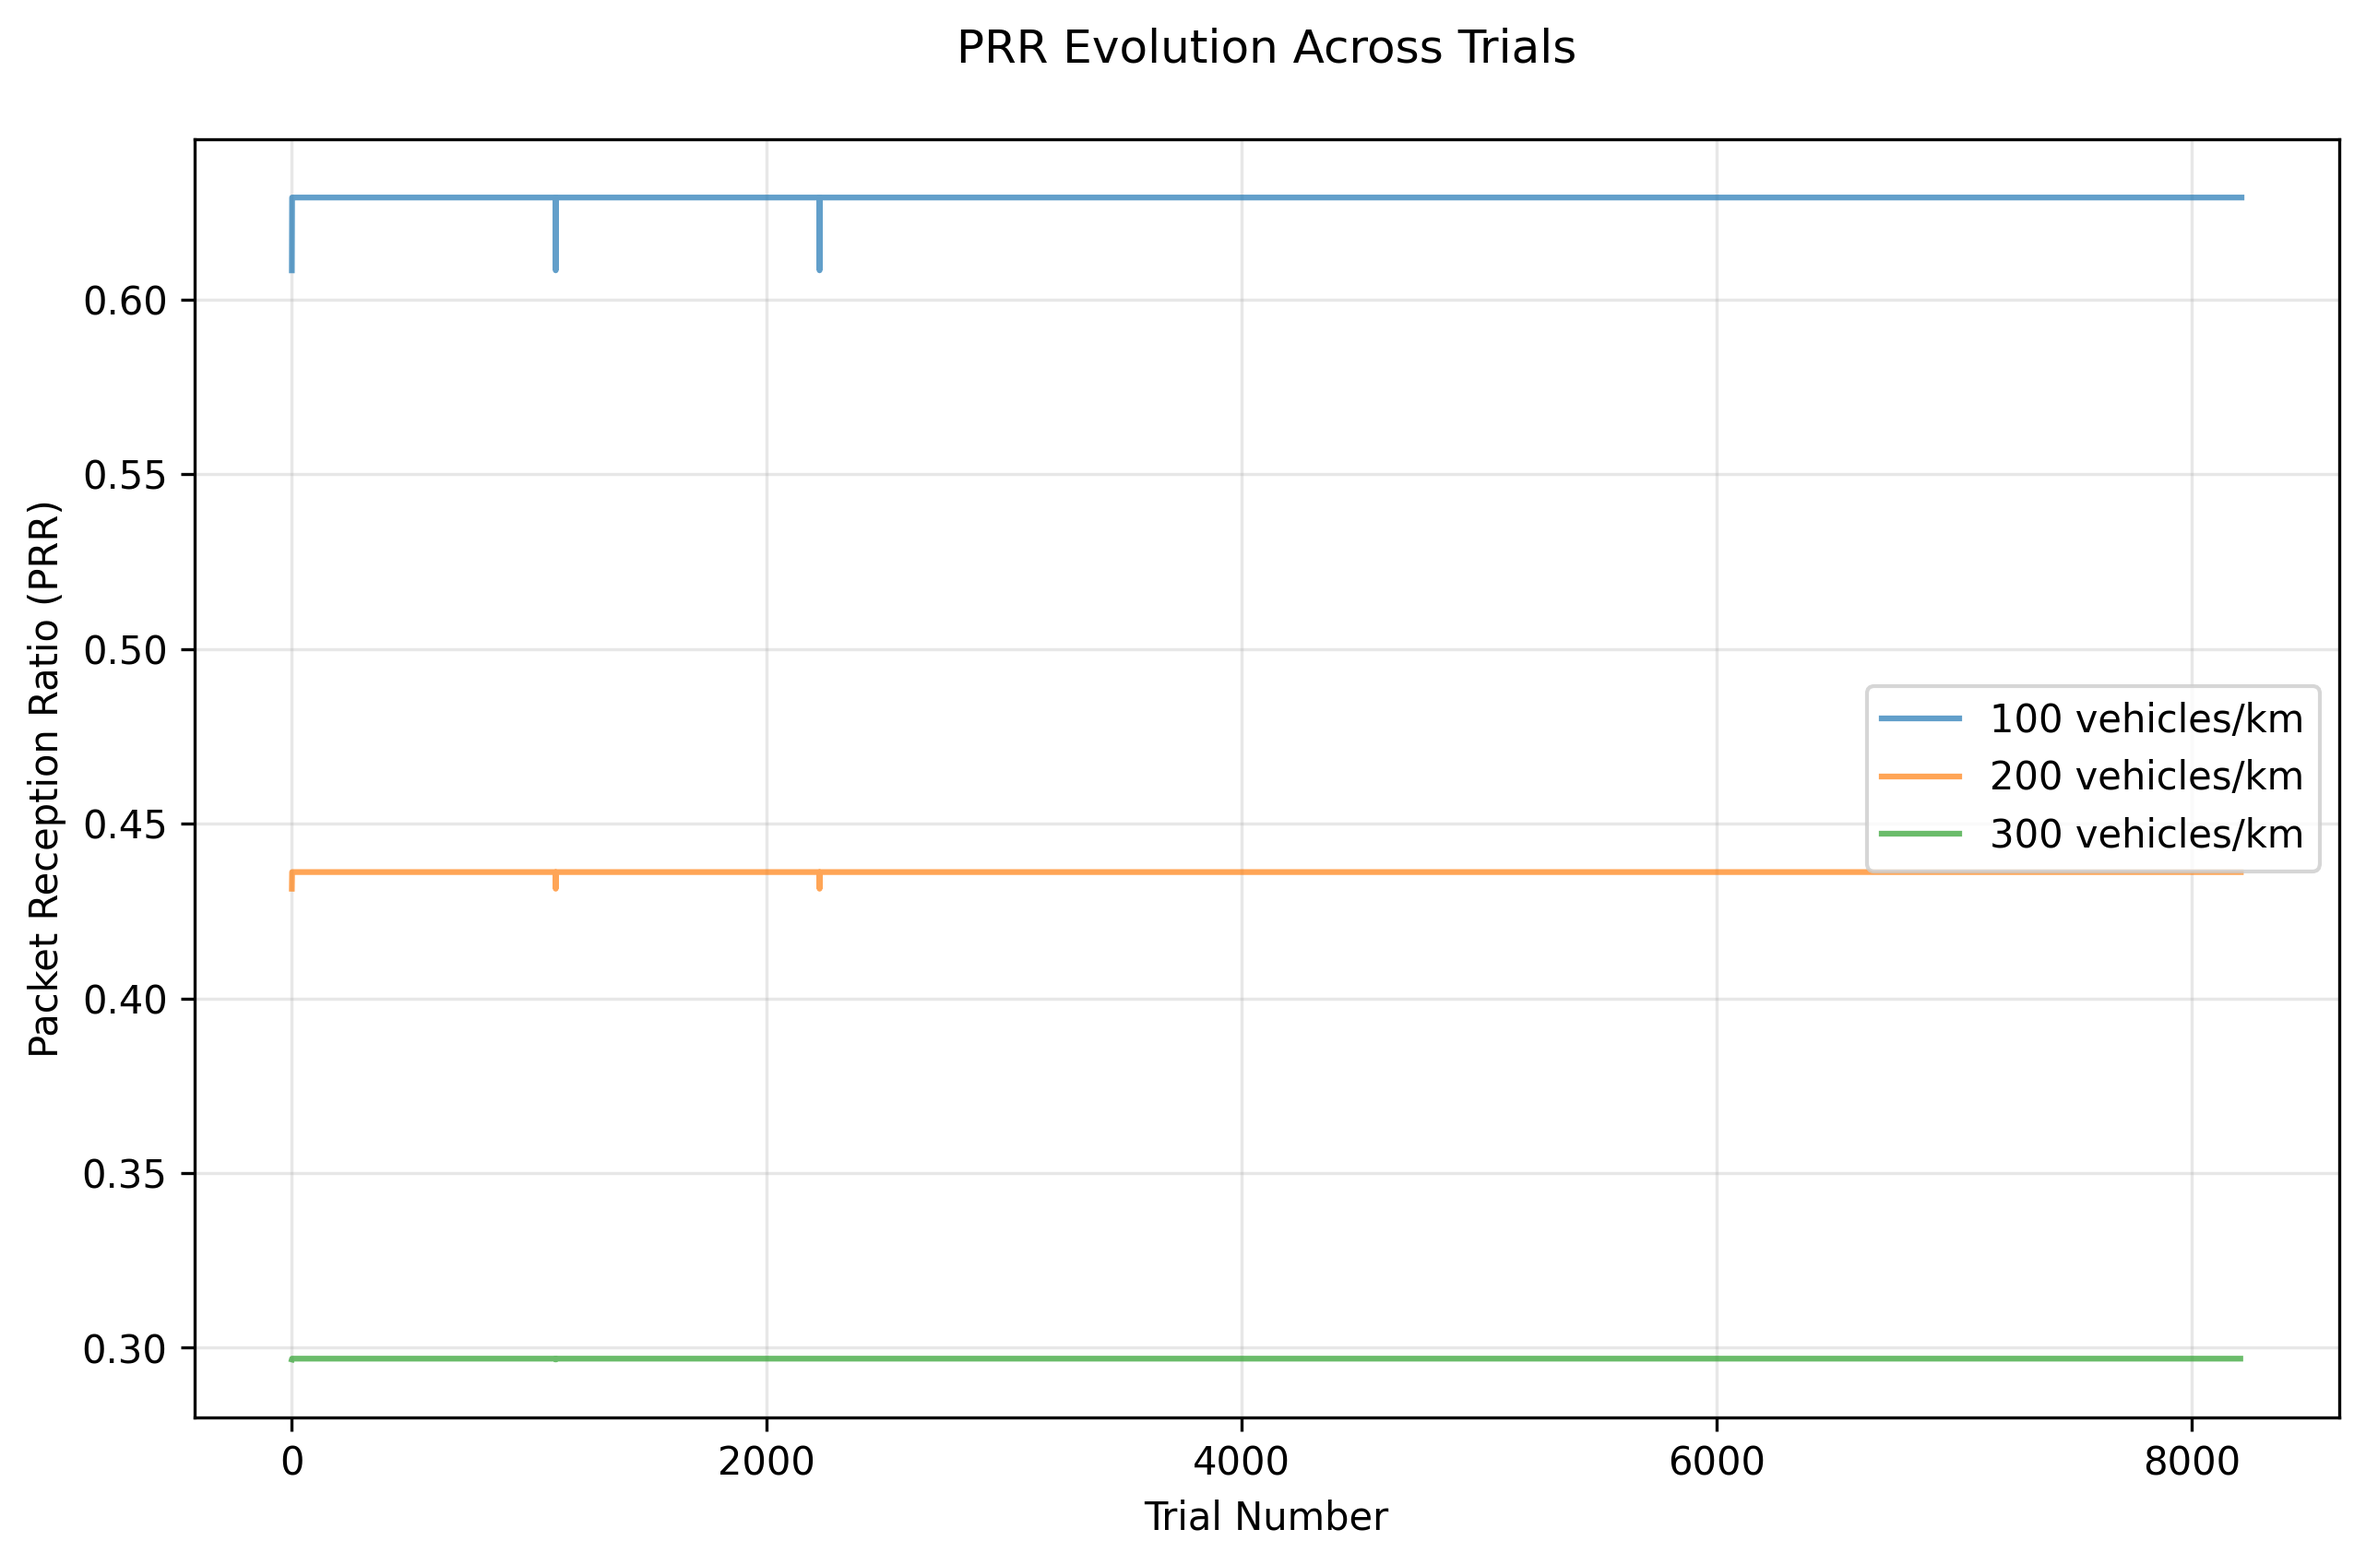
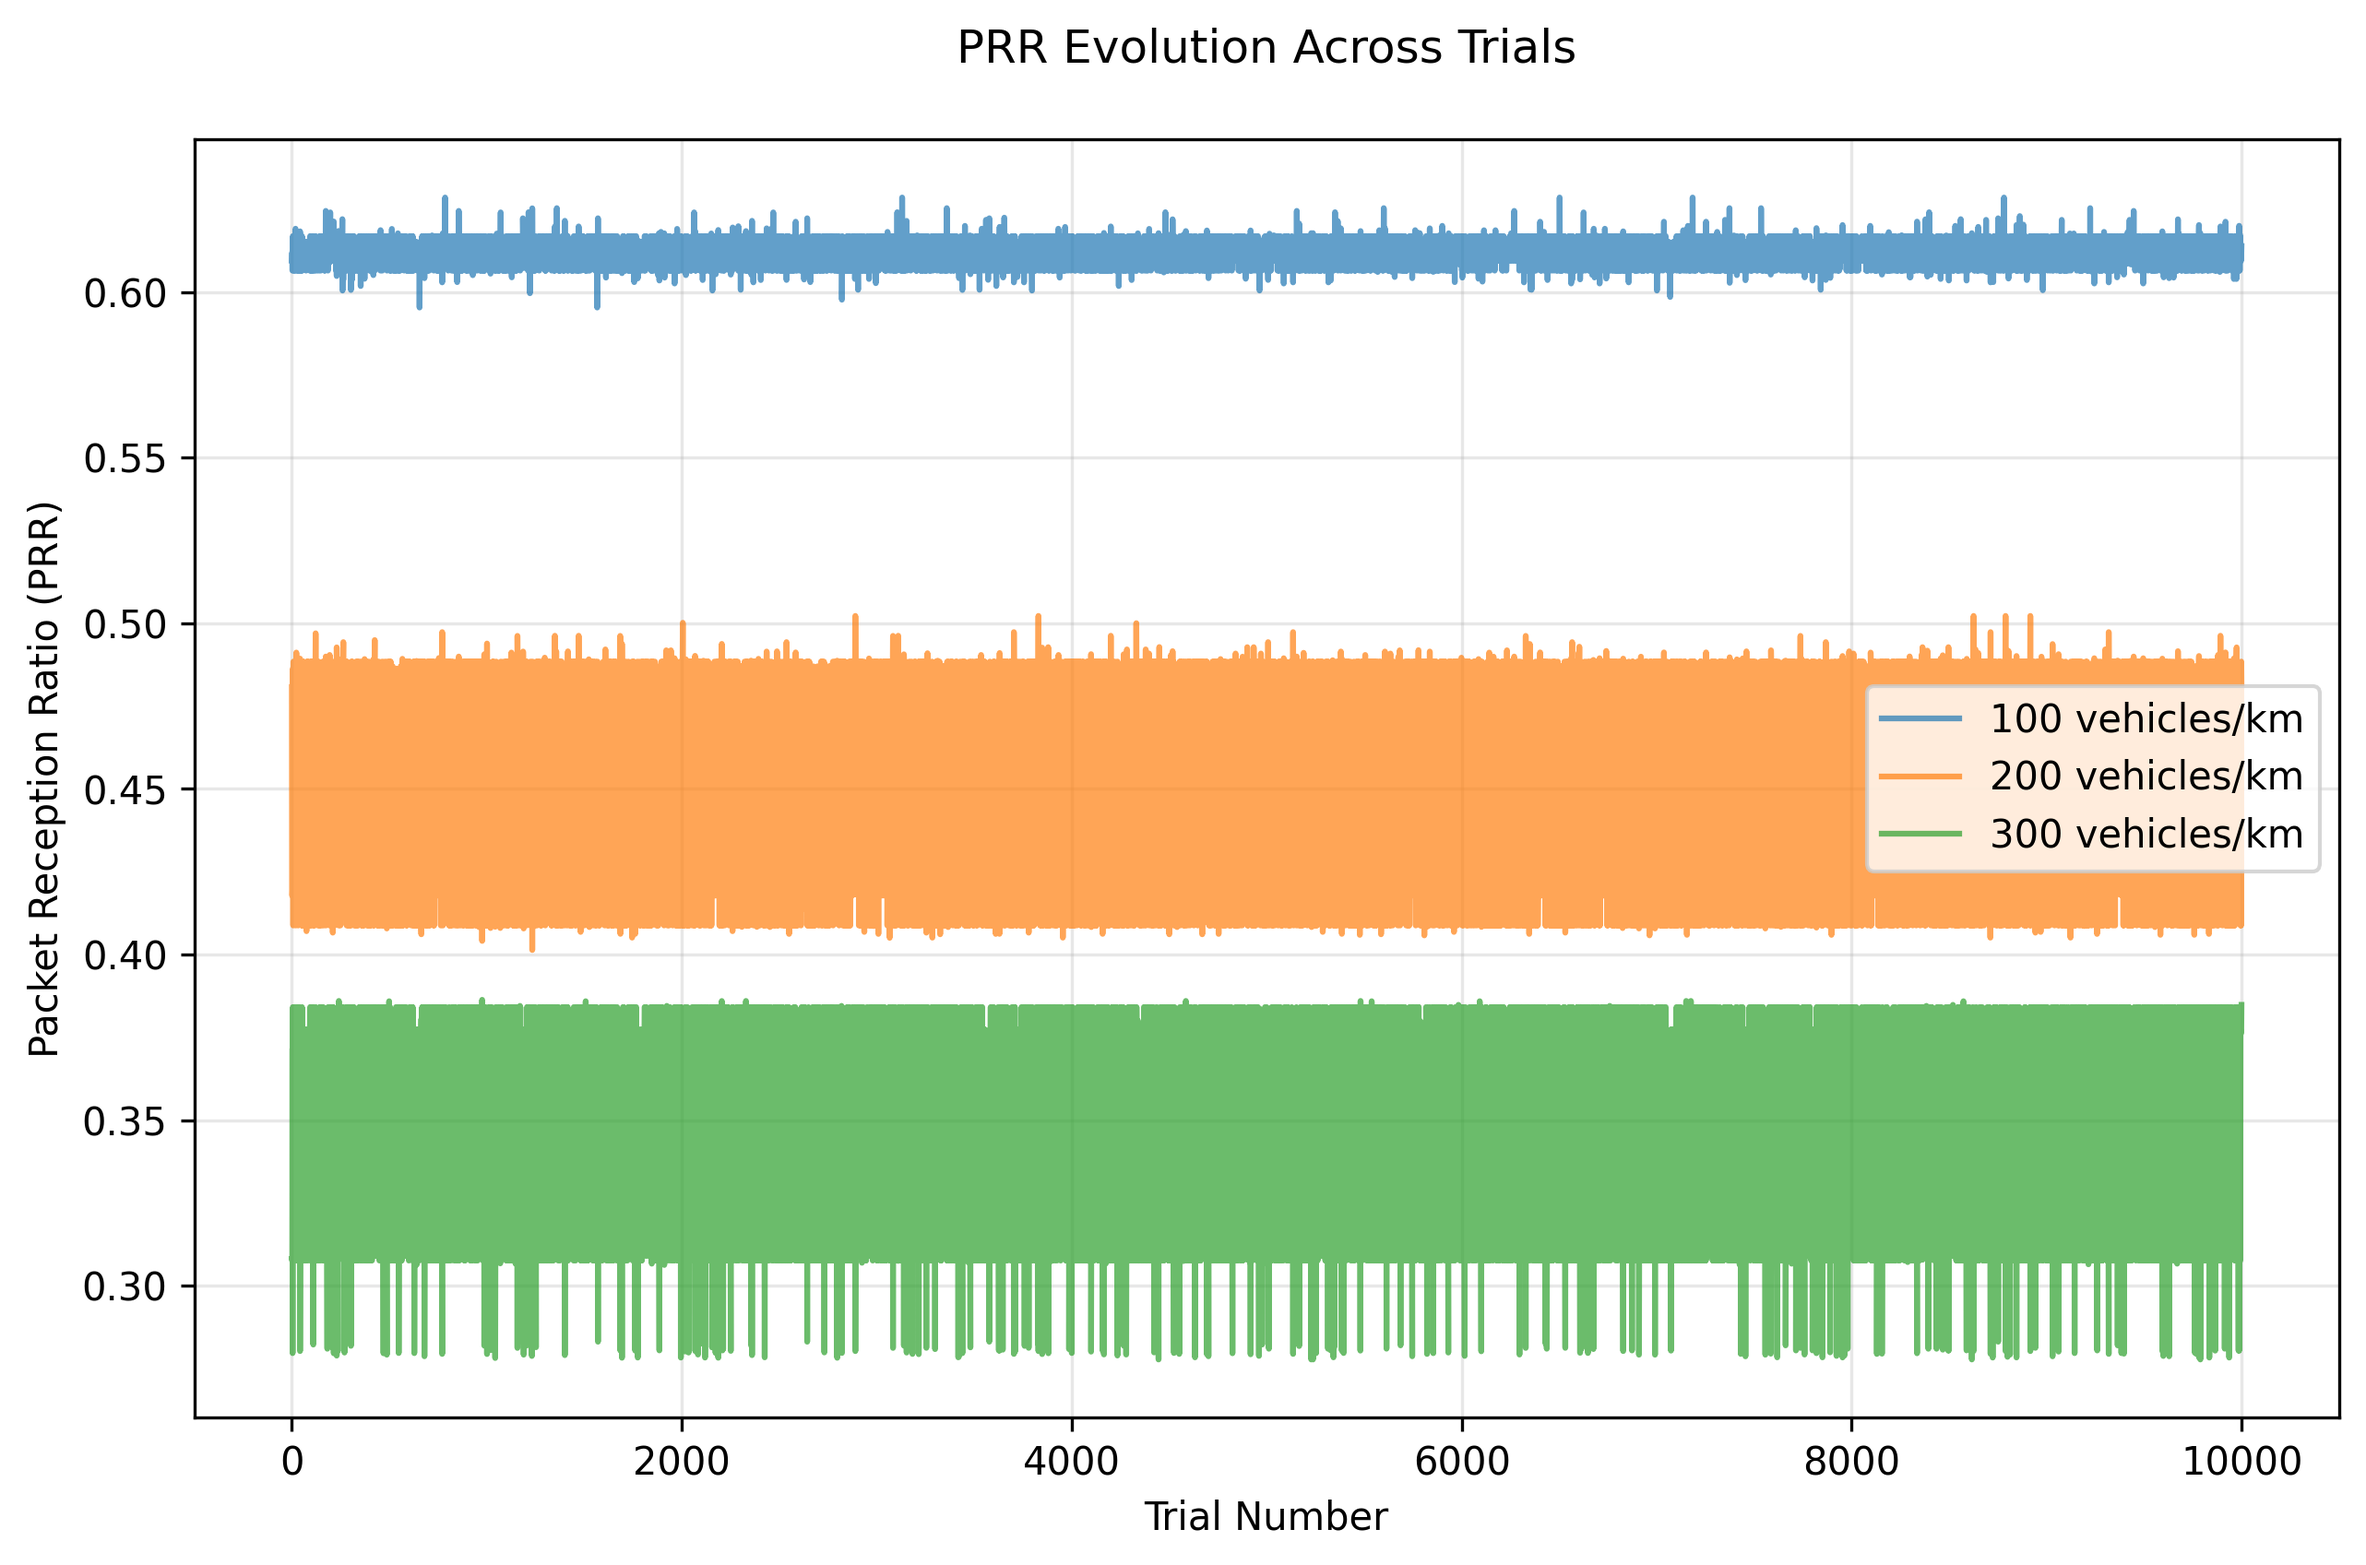
ADD:final simulation file added. This generates our current MC simulations

diff --git a/sim4.m b/sim4.m
@@ -3,40 +3,38 @@ clear        % Reset variables
 clc          % Clear the command window
 
 % Parameters
-packetSize = 1000;         % 1000B packet size
-nTransm = 1;               % Number of transmissions per packet
-sizeSubchannel = 10;       % Number of Resource Blocks for each subchannel
-Raw = [50, 150, 300];      % Range of Awareness for evaluation of metrics
-SCS = 15;                  % Subcarrier spacing [kHz]
-pKeep = rand(1) * 0.4 + 0.2;  % Random keep probability between 0.2 and 0.6
-periodicity = 0.1;         % Periodic generation (every 100 ms)
-sensingThreshold = -126;   % Threshold to detect resources as busy
-roadLength = 1000;         % Length of the road [m]
+packetSize = 500;          % Packet size in bytes
+nTransm = 1;                % Number of transmissions per packet
+sizeSubchannel = 10;        % Number of Resource Blocks for each subchannel
+Raw = [50, 150, 300];       % Range of Awareness for evaluation of metrics
+speed = 90;                 % Average speed [km/h]
+speedStDev = 30;            % Speed standard deviation
+maxSpeedVar = 20;           % Maximum speed variation
+SCS = 15;                   % Subcarrier spacing [kHz]
+pKeep = 0.4;                % Keep probability for resource re-selection
+periodicity = 0.1;          % Generation interval (every 100 ms)
+sensingThreshold = -126;    % Threshold to detect resources as busy
+roadLength = 1000;          % Length of the road [m]
 configFile = 'Highway3GPP.cfg';
 
-% Enhanced speed parameters for more variation
-speed = 90;                % Average speed [km/h]
-speedStDev = 40;          % Increased standard deviation of speed
-maxSpeedVar = 20;         % Maximum speed variation during simulation
-
-% Channel impairment parameters
-shadowingStdDev = 8;      % Shadow fading standard deviation in dB
-fastFadingType = 'Rayleigh'; % Type of fast fading
-ricianKFactor = 3;        % Rician K-factor for LOS scenarios
-correlationDistance = 50;  % Correlation distance for shadowing
+% Channel parameters
+shadowingStdDev = 8;        % Shadowing standard deviation in dB
+fastFadingType = 'Rayleigh';% Fast fading type
+ricianKFactor = 3;          % Rician K-factor for LOS scenarios
+correlationDistance = 50;   % Correlation distance for shadowing
 
 % Monte Carlo parameters
-numTrials = 10000;        % Number of Monte Carlo trials
-rhoValues = [100, 200, 300];  % Vehicle densities
-BandMHz = 10;             % Bandwidth in MHz
+numTrials = 10000;          % Number of Monte Carlo trials
+rhoValues = [100, 200, 300]; % Vehicle densities
+BandMHz = 20;               % Bandwidth in MHz
 
 % Initialize results storage (using GPU array for acceleration)
 PRR_results = gpuArray.zeros(numTrials, length(rhoValues));
 
-% Set up parallel pool with 6 workers
+% Set up parallel pool with 6 workers (adjust if needed)
 parpool('local', 6);
 
-% Function to get random MCS based on channel conditions
+% Adaptive MCS function based on SINR
 function mcs = getAdaptiveMCS(sinr)
     if sinr > 20
         mcs = randi([10, 13]);  % Good channel conditions
@@ -67,13 +65,13 @@ end
 parfor trial = 1:numTrials
     fprintf('Running trial %d of %d\n', trial, numTrials);
     
-    % Initialize a temporary variable for results
+    % Initialize a temporary variable to store results for each density in this trial
     prr_trial = zeros(1, length(rhoValues));
     
     for rhoIdx = 1:length(rhoValues)
-        rho = rhoValues(rhoIdx);
+        rho = rhoValues(rhoIdx);  % Vehicle density
         
-        % Dynamic simulation time based on density
+        % Adjust simulation time based on density
         switch rho
             case 100
                 simTime = 10;
@@ -83,16 +81,19 @@ parfor trial = 1:numTrials
                 simTime = 3;
         end
         
-        % Calculate initial SINR for adaptive MCS (simplified)
-        initialSINR = 20 - (rho/100)*5 + randn()*3;  % Decreases with density
-        MCS = getAdaptiveMCS(initialSINR);
+        % Dynamic SINR calculation for adaptive MCS
+        distance = rand() * roadLength; % Randomized distance on the road
+        [pathLoss, shadowingLoss, fadingLoss] = calculateChannelLoss(distance, shadowingStdDev, fastFadingType);
+        sinr = 20 - pathLoss - shadowingLoss - fadingLoss;
+        MCS = getAdaptiveMCS(sinr); % Get MCS based on calculated SINR
         
-        % Generate output folder path
+        % Dynamic speed during simulation
+        currentSpeed = max(0, speed + speedStDev * randn() + maxSpeedVar * sin(2 * pi * rand()));
+
+        
+        % Output folder for storing results
         outputFolder = fullfile(pwd, 'mcsimTrials2', sprintf('MonteCarloTrial_%d', trial), ...
             sprintf('NRV2X_%dMHz_rho%d', BandMHz, rho));
-        
-        % Dynamic speed variation during simulation
-        currentSpeed = speed + speedStDev*randn() + maxSpeedVar*sin(2*pi*rand());
         
         % Run WiLabV2Xsim simulation with enhanced parameters
         WiLabV2Xsim(configFile, 'outputFolder', outputFolder, 'Technology', '5G-V2X', ...
@@ -100,16 +101,11 @@ parfor trial = 1:numTrials
             'simulationTime', simTime, 'rho', rho, 'probResKeep', pKeep, ...
             'BwMHz', BandMHz, 'vMean', currentSpeed, 'vStDev', speedStDev, ...
             'cv2xNumberOfReplicasMax', nTransm, 'allocationPeriod', periodicity, ...
-            'sizeSubchannel', sizeSubchannel, ...
-            'powerThresholdAutonomous', sensingThreshold, 'Raw', Raw, ...
-            'FixedPdensity', false, 'dcc_active', true, 'cbrActive', true, ...
-            'roadLength', roadLength, ...
-            'channelModel', struct('shadowingStdDev', shadowingStdDev, ...
-                                 'fastFadingType', fastFadingType, ...
-                                 'ricianKFactor', ricianKFactor, ...
-                                 'correlationDistance', correlationDistance));
+            'sizeSubchannel', sizeSubchannel, 'powerThresholdAutonomous', sensingThreshold, ...
+            'Raw', Raw, 'FixedPdensity', false, 'dcc_active', true, 'cbrActive', true, ...
+            'roadLength', roadLength, 'channelModel', 0);
         
-        % Process results
+        % Process results from output files
         prrFiles = dir(fullfile(outputFolder, 'packet_reception_ratio_*_5G.xls'));
         
         if ~isempty(prrFiles)
@@ -127,10 +123,11 @@ parfor trial = 1:numTrials
         end
     end
     
+    % Store trial results in PRR_results array
     PRR_results(trial, :) = prr_trial;
 end
 
-% Gather results from GPU back to CPU
+% Gather results from GPU to CPU
 PRR_results = gather(PRR_results);
 
 % Analysis and visualization
@@ -158,7 +155,7 @@ ylabel('Mean PRR ± Standard Deviation');
 title('Mean Packet Reception Ratio with Variation Across Monte Carlo Trials');
 grid on;
 
-% Plot distribution of PRR values
+% Plot distribution of PRR values using violin plot
 figure;
 violinplot(PRR_results, cellstr(string(rhoValues) + " vehicles/km"));
 xlabel('Vehicle Density');

diff --git a/plotsim3.py b/plotsim3.py
@@ -5,7 +5,7 @@ import matplotlib.pyplot as plt
 import seaborn as sns
 from glob import glob
 
-def analyze_nrv2x_results(base_dir='mcsimTrials'):
+def analyze_nrv2x_results(base_dir='/home/faizal/mcsimTrials2'):
     """
     Analyze NR-V2X simulation results from multiple trials.
     """
@@ -23,18 +23,21 @@ def analyze_nrv2x_results(base_dir='mcsimTrials'):
     for trial_dir in trial_dirs:
         # Process each density
         for rho in [100, 200, 300]:
-            # Find the PRR file for this density
-            prr_file = glob(os.path.join(trial_dir, f'NRV2X_10MHz_rho{rho}', 
-                                       'packet_reception_ratio_*_5G.xls'))
-            
-            if prr_file:  # If file exists
-                try:
-                    # Load the data and get the mean PRR (last column)
-                    data = np.loadtxt(prr_file[0])
-                    mean_prr = np.mean(data[:, -1])
-                    results[rho].append(mean_prr)
-                except Exception as e:
-                    print(f"Error processing {prr_file[0]}: {e}")
+            prr_file = glob(os.path.join(trial_dir, f'NRV2X_20MHz_rho{rho}', 
+                                        'packet_reception_ratio_*_5G.xls'))
+            if not prr_file:
+                print(f"No PRR file found for rho = {rho} in {trial_dir}")
+                continue
+
+            try:
+                data = np.loadtxt(prr_file[0])
+                if data.size == 0:
+                    print(f"File {prr_file[0]} is empty.")
+                    continue
+                mean_prr = np.mean(data[:, -1])
+                results[rho].append(mean_prr)
+            except Exception as e:
+                print(f"Error processing {prr_file[0]}: {e}")
     
     # Convert results to numpy arrays
     for rho in results:
